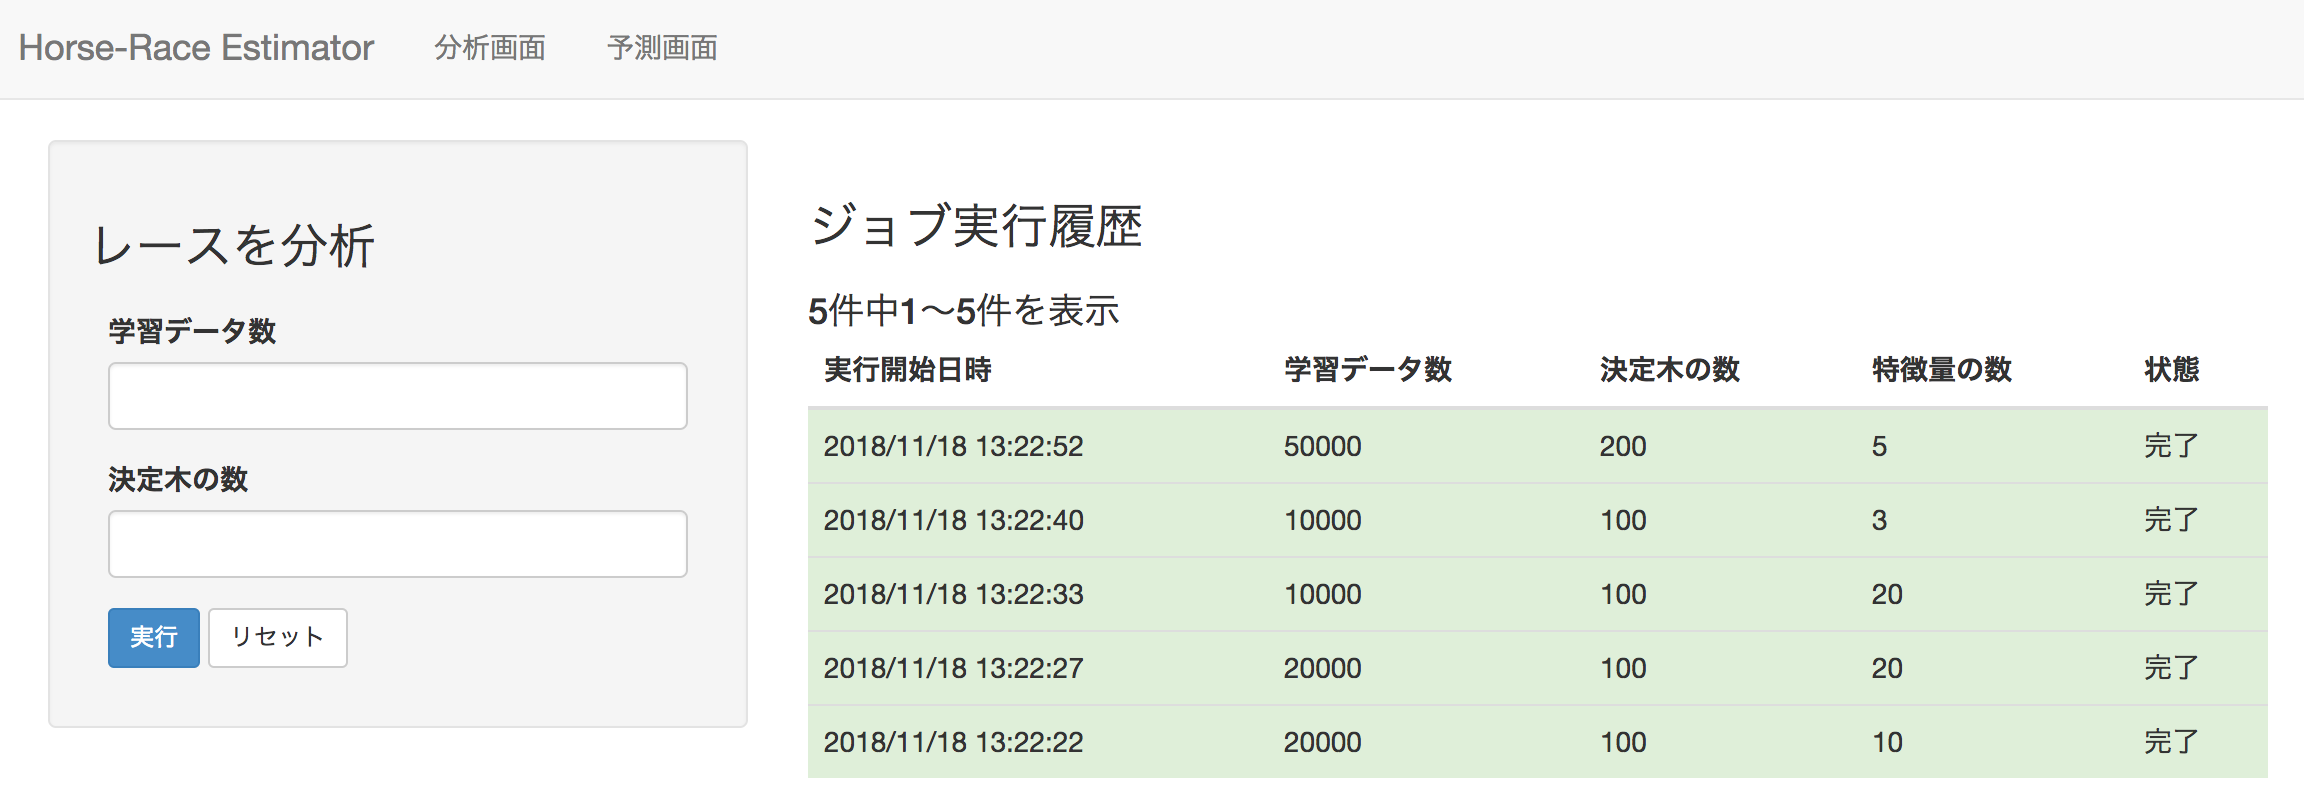
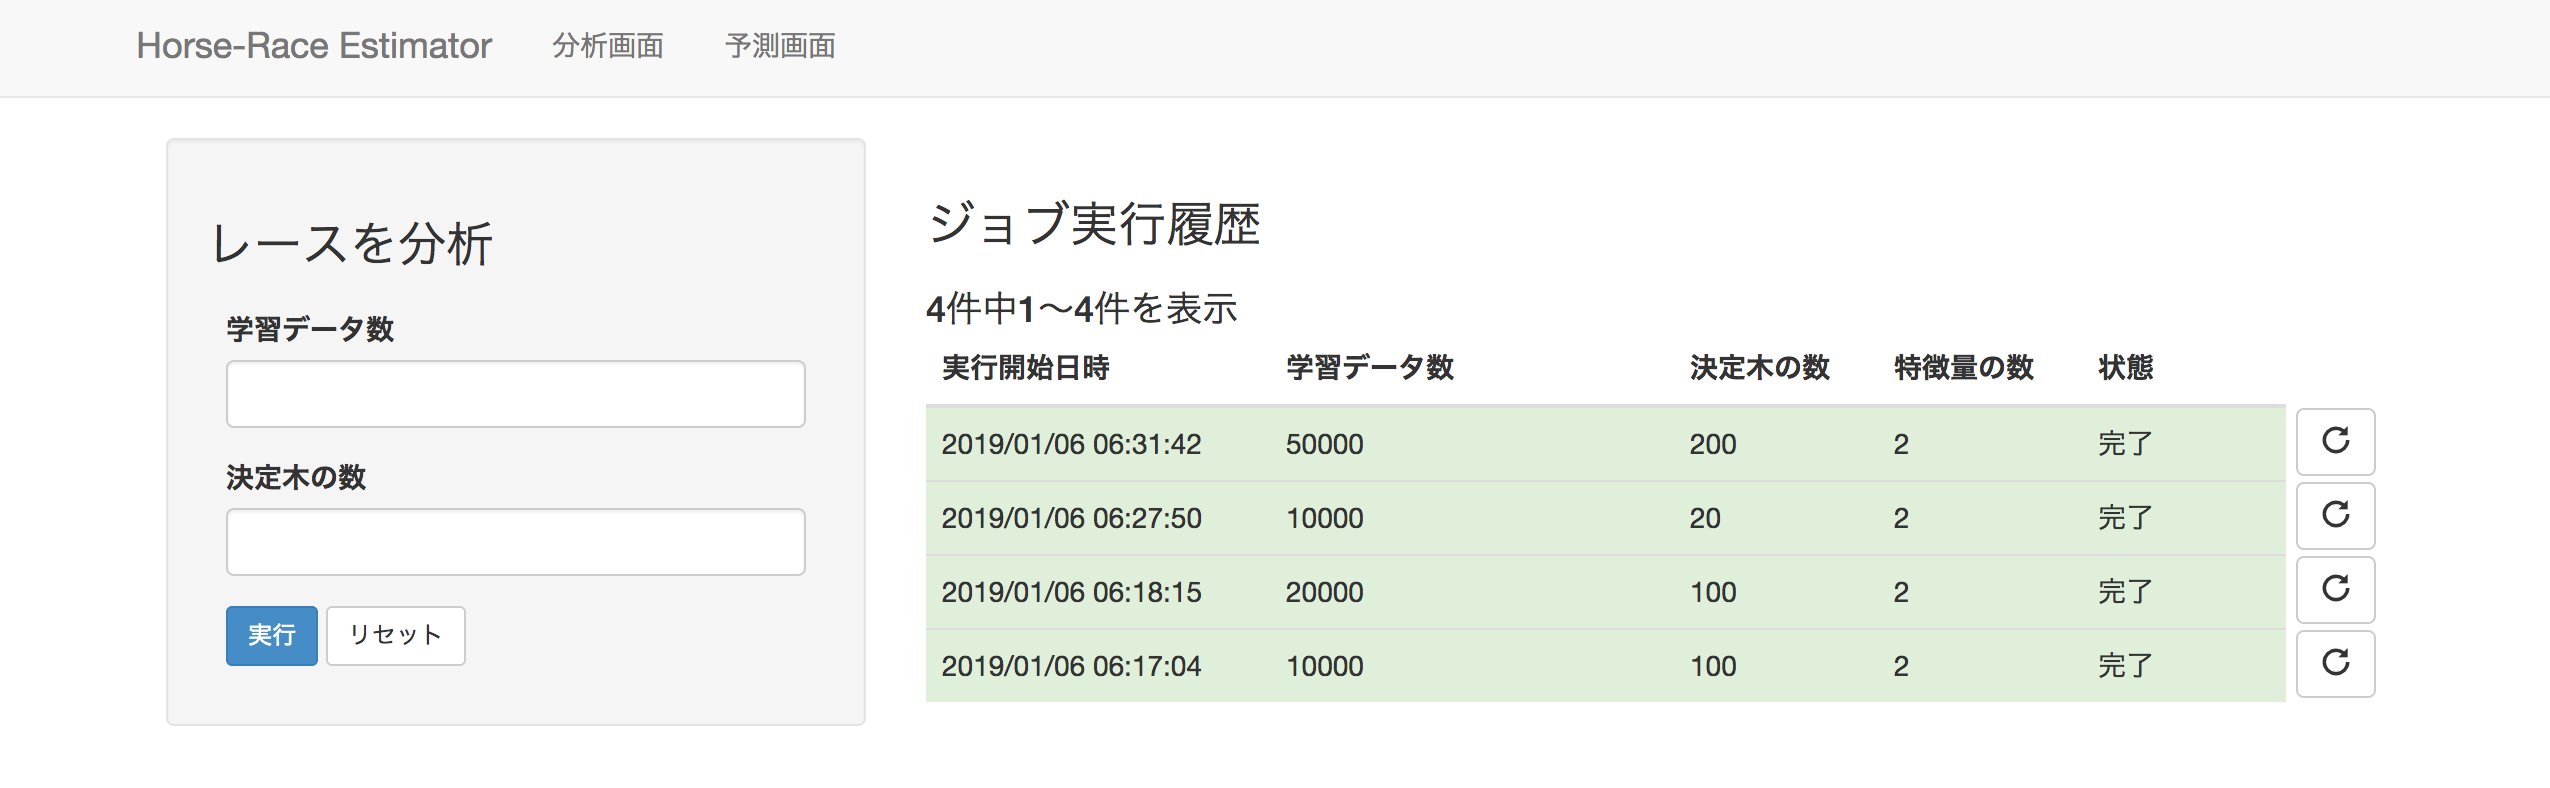
Alterf rebuild from history (#170)
* update analysis image

* update external spec

* update CHANGELOG.md

diff --git a/horse-race_estimator/alterf/external.rst b/horse-race_estimator/alterf/external.rst
@@ -99,6 +99,7 @@
   - 25ジョブごとにページングされている
   - 実行開始日時の降順でソートされている
   - 実行中のジョブは黄色，完了したジョブの行は緑色で表示される
+  - ジョブ情報の右側のボタンを押下すると，そのジョブと同じパラメーターで分析を実行する
 
 .. _alt-ext-ui-prediction:
 

diff --git a/CHANGELOG.md b/CHANGELOG.md
@@ -1,4 +1,5 @@
 # 2019/01/06
+- [Alterf] update version to 3.7.0
 - [Regulus] update version to 4.1.0
 
 # 2019/01/05
